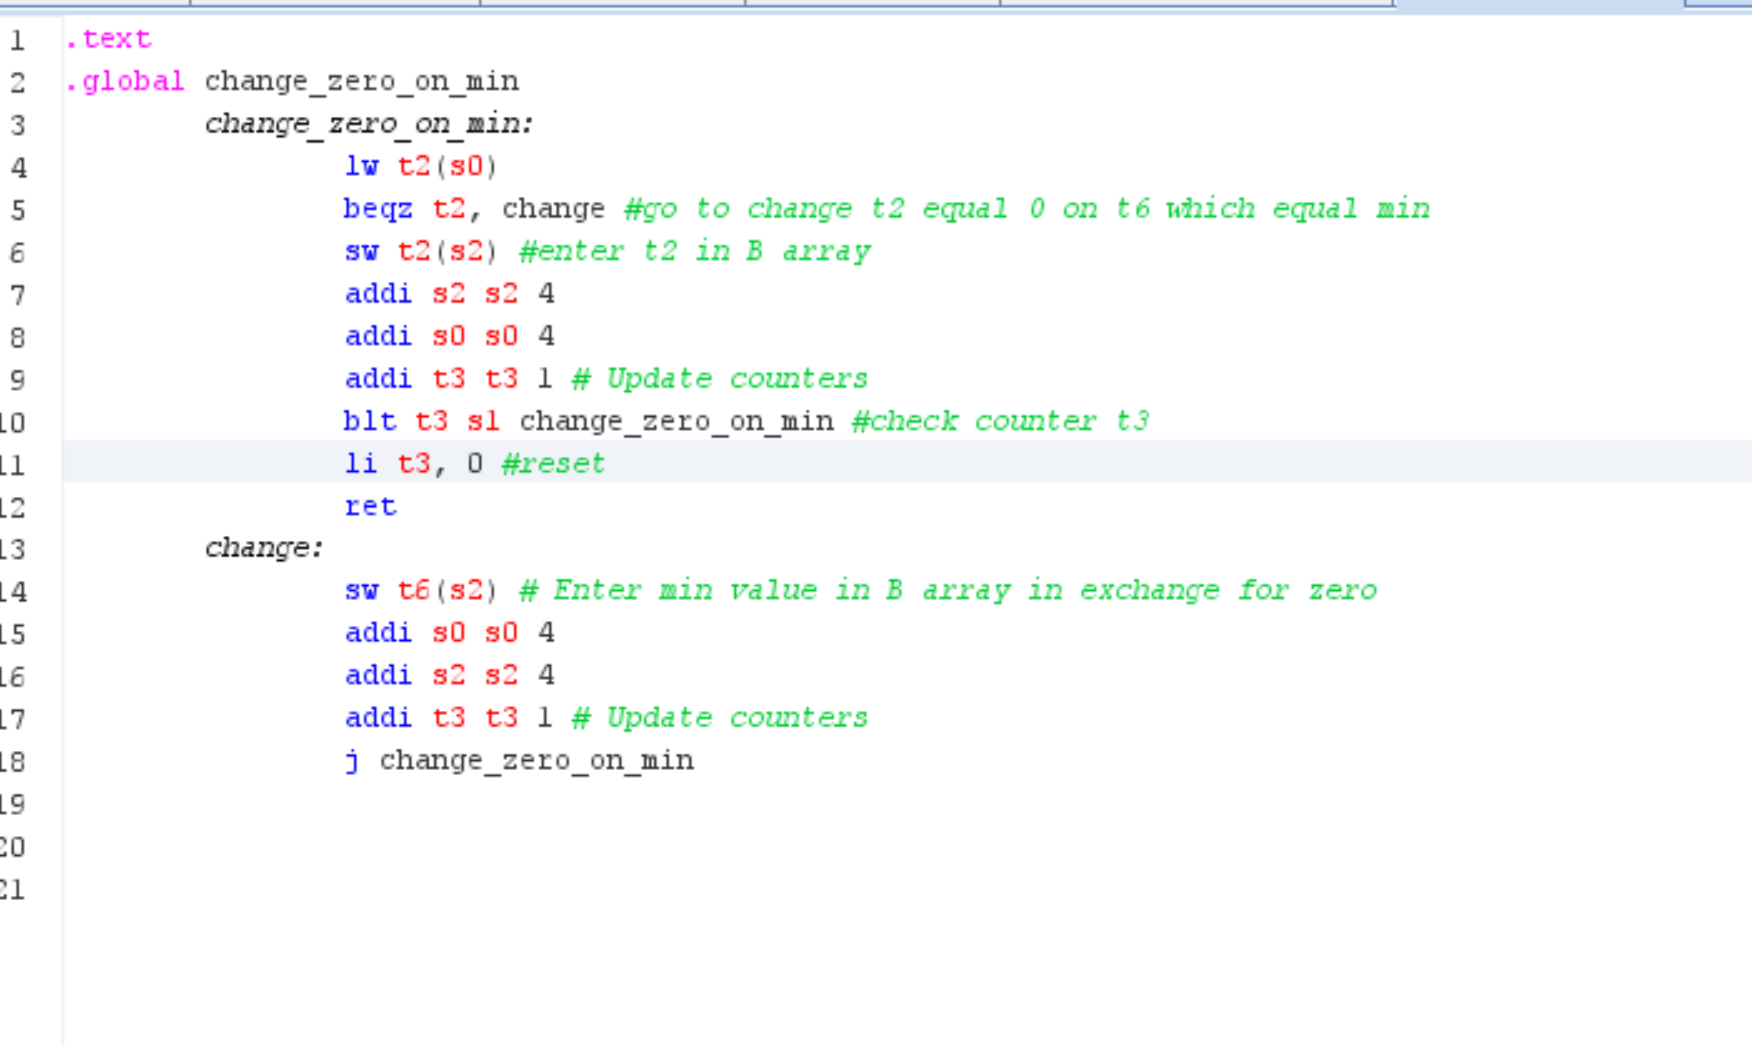
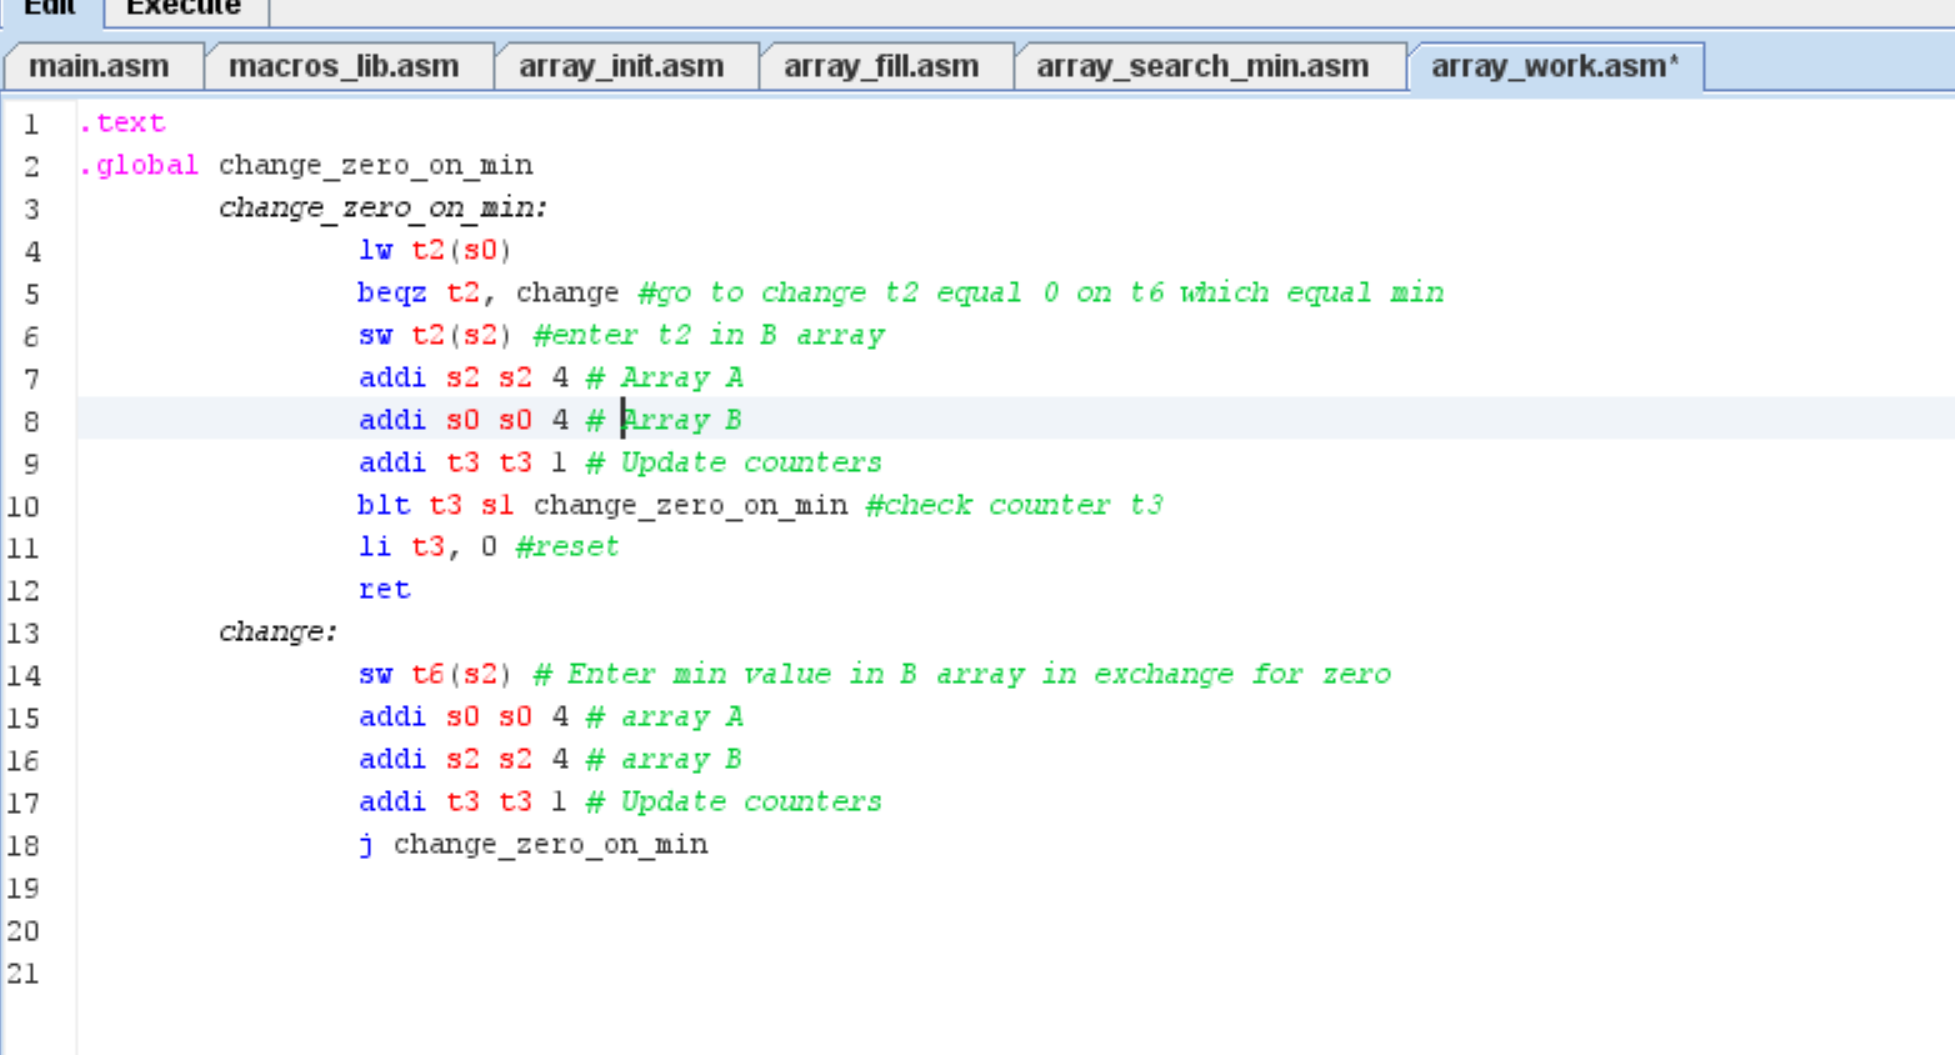
''

Changed region(s): [[0.0, 0.0, 1.0, 0.9493]]

diff --git a/ИДЗ_1/README.md b/ИДЗ_1/README.md
@@ -49,5 +49,7 @@ t6 - регистр хранящий максимальное число в 4 б
 
 **array_work**
 <image src="/ИДЗ_1/images/arraywork.png"> \
+Впринципе тут все расписанно в комментариях. Достаем элемент, если он равен нулу обрабатываем его чуть по другому - записываем вместо него минимальный элемент массива А. Увеличиваем регистры счетчики. S2 - регистр array B. S0 - регист array A. В конце выхожу из подпрограммы и обнуляю временные переменные(t3).
+
 
 
